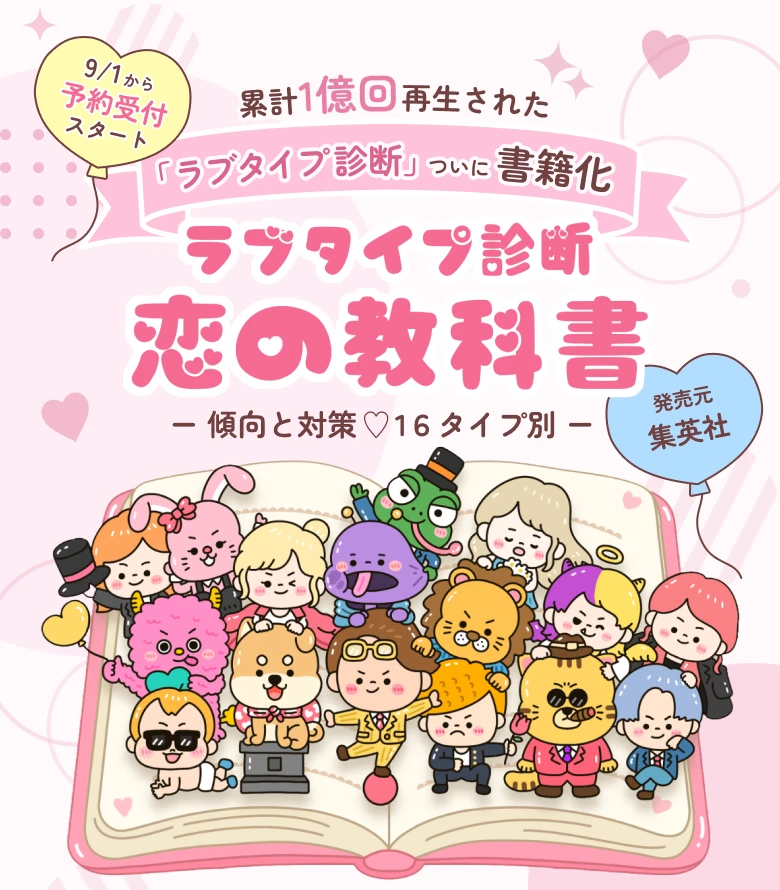
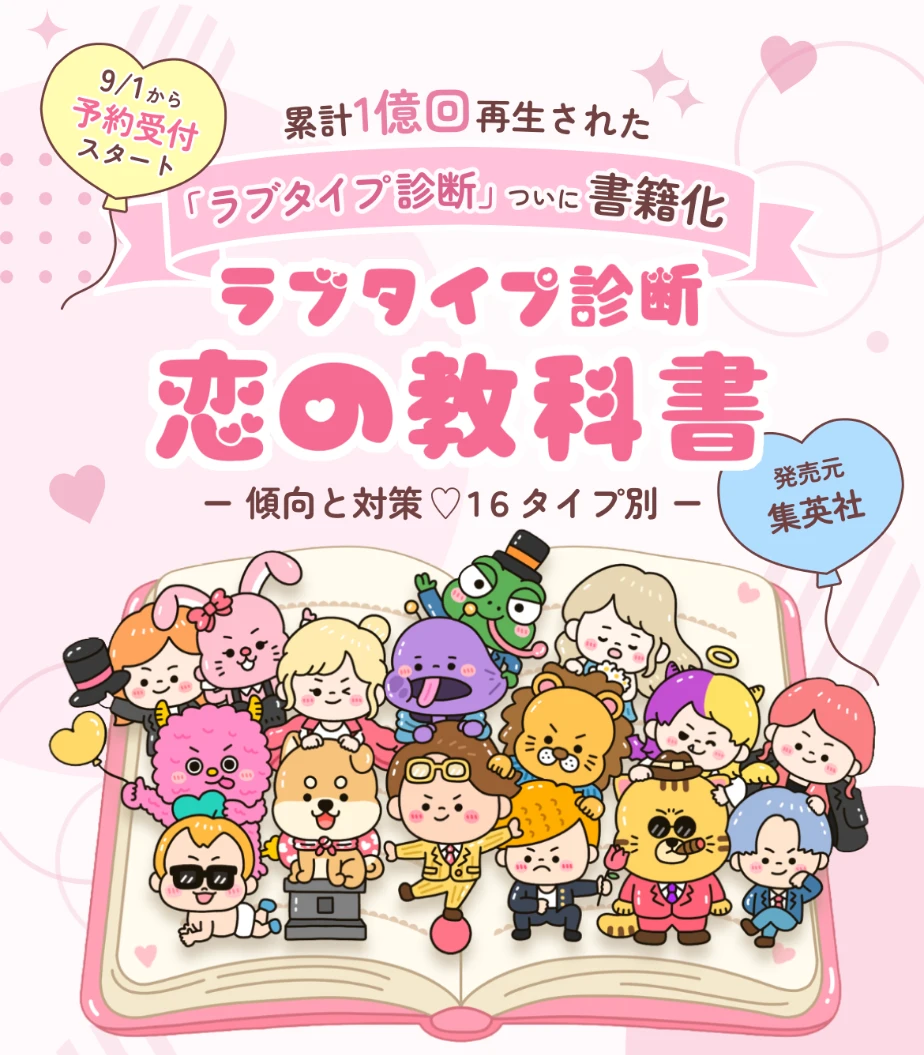
上部ビジュアルを高解像度の書き出しに差し替え
780 × 890 から 924 × 1055 へ。縦横比は従来と同じで、
切り出し位置（上から52.725%）も変えていない。
表示サイズに対して2.37倍の画素になり、2倍密度の端末で鮮明になる。

Claude-Session: https://claude.ai/code/session_01QvKqvrtX5xznvkHgTfkAY2

diff --git a/index.html b/index.html
@@ -19,7 +19,7 @@
   <header class="hero">
     <picture>
       <source srcset="assets/img/hero.webp" type="image/webp">
-      <img src="assets/img/hero.png" width="780" height="890"
+      <img src="assets/img/hero.png" width="924" height="1055"
            alt="9/1から予約受付スタート。累計1億回再生された「ラブタイプ診断」ついに書籍化。ラブタイプ診断 恋の教科書 ー 傾向と対策♡16タイプ別 ー 発売元 集英社">
     </picture>
   </header>

diff --git a/README.md b/README.md
@@ -156,12 +156,17 @@ python3 -m http.server 8000
 ## 入力ページのビジュアルについて
 
 上部のビジュアル（バッジ・リボン・タイトルロゴ・書籍イラスト）は
-デザインカンプから切り出した1枚の画像です（`assets/img/hero.*`、780 × 890）。
+デザインカンプから切り出した1枚の画像です（`assets/img/hero.*`、924 × 1055）。
 カスタムのレタリングとイラストのため、CSSでは再現せず画像にしています。
 
-**解像度**：元データが横780pxのため、高精細な端末では約1.5倍に引き伸ばされます。
-よりくっきり見せたい場合は、同じ縦横比（780 : 890）で1.5〜2倍の
-書き出しに差し替えてください。コードの変更は不要です。
+**解像度**：表示サイズ 390 × 445 に対して 2.37倍の画素があり、
+2倍密度の端末（多くのiPhone・Android）では十分にくっきり表示されます。
+3倍密度の端末（iPhone の Pro / Max 系）では約1.3倍に引き伸ばされます。
+
+そこまで詰めたい場合は、カンプ全体を **横1300px以上**（比率は 0.4621 のまま、
+例：1300 × 2813）で書き出し、上から **52.725%** の位置で切ってください。
+`hero.webp` と `hero.png` を置き換えるだけで、コードの変更は不要です
+（`index.html` の `width` / `height` 属性だけ実寸に合わせてください）。
 
 フォームのカード（白い枠・リボン・入力欄・ボタン）はHTML/CSSで組んでいるので、
 文字はどの解像度でも鮮明で、文言の変更も自由にできます。
